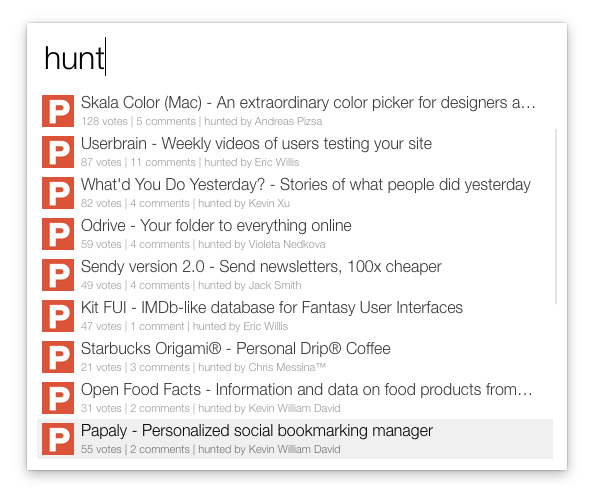
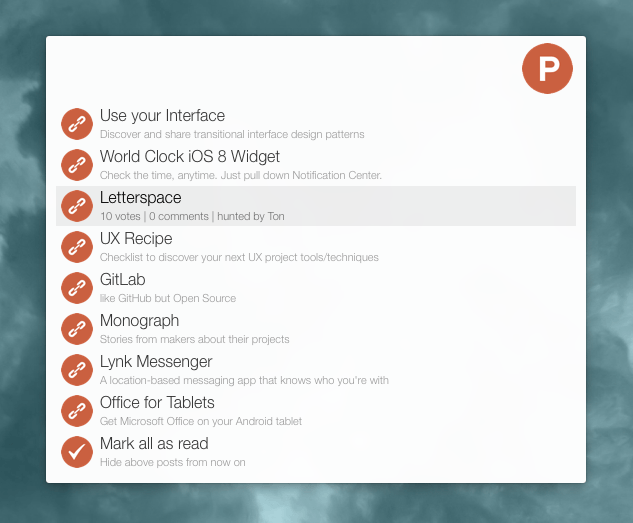
v1.1 release

diff --git a/source/ph.py b/source/ph.py
@@ -2,9 +2,8 @@
 # encoding: utf-8
 
 import sys
-import time
 
-from workflow import ICON_WARNING, web, Workflow
+from workflow import web, Workflow
 
 log = None
 
@@ -18,32 +17,75 @@ def plural(num=0, text=''):
 
 def main(wf):
 
-    posts = wf.cached_data('posts', get_posts, max_age=60)
+    posts           = wf.cached_data('posts', get_posts, max_age=5*60)
+    read_post_ids   = wf.stored_data('read_post_ids') or []
+    displayed_posts = False
 
     if posts:
         for post in posts:
-            wf.add_item(
-                u'%s - %s' % (post['name'], post['tagline']),
-                u'%s | %s | hunted by %s' % (plural(post['votes_count'], 'vote'), plural(post['comments_count'], 'comment'), post['user']['name']),
-                arg=u'%s %s' % (post['redirect_url'], post['discussion_url']),
-                valid=True,
-                icon=u'icon.png',
-                uid=u'%s%s' % (post['id'], time.time())
-            )
+            if post['id'] not in read_post_ids:
+                displayed_posts = True
+                wf.add_item(
+                    post['name'],
+                    post['tagline'],
+                    arg=u'open|%s|%s|%s' % (post['id'], post['redirect_url'], post['discussion_url']),
+                    modifier_subtitles={
+                        u'cmd': u'%s | %s | hunted by %s' % (plural(post['votes_count'], 'vote'), plural(post['comments_count'], 'comment'), post['user']['name'])
+                    },
+                    copytext=post['redirect_url'],
+                    valid=True,
+                    icon=u'link.png'
+                )
+
+    if displayed_posts:
+        wf.add_item(
+            u'Mark all as read',
+            u'Hide above posts from now on',
+            arg=u'mark_all_as_read',
+            modifier_subtitles={
+                u'cmd': u'Restore hidden posts'
+            },
+            valid=True,
+            icon=u'check.png'
+        )
     else:
-        wf.add_item('No items', icon=ICON_WARNING)
+        wf.add_item(
+            u'No posts',
+            u'Restore hidden posts',
+            arg=u'mark_all_as_unread',
+            modifier_subtitles={
+                u'cmd': u'Restore hidden posts'
+            },
+            valid=True,
+            icon=u'error.png'
+        )
 
     wf.send_feedback()
+
+def mark_all_as_read(wf):
+    posts   = wf.cached_data('posts', get_posts, max_age=5*60)
+    ids     = map(lambda x:x['id'], posts)
+
+    wf.store_data('read_post_ids', ids)
+
+def mark_all_as_unread(wf):
+    wf.store_data('read_post_ids', None)
 
 if __name__ == '__main__':
     wf = Workflow(update_settings={
         'github_slug': 'loris/alfred-producthunt-workflow',
-        'version': '1.0',
+        'version': '1.1',
         'frequency': 1
     })
 
-    if wf.update_available:
-        wf.start_update()
+    log     = wf.logger
+    command = wf.args[0]
 
-    log = wf.logger
-    sys.exit(wf.run(main))
+    if command == 'mark_all_as_read':
+        sys.exit(wf.run(mark_all_as_read))
+    elif command == 'mark_all_as_unread':
+        sys.exit(wf.run(mark_all_as_unread))
+    else:
+        if wf.update_available:
+            wf.start_update()
+        sys.exit(wf.run(main))
